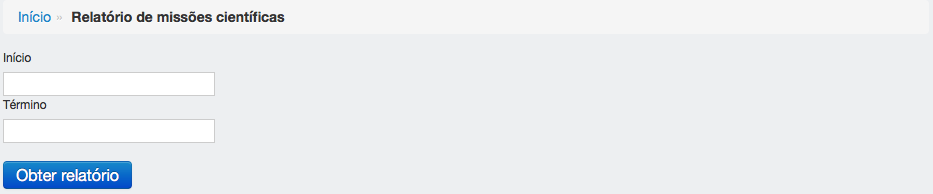
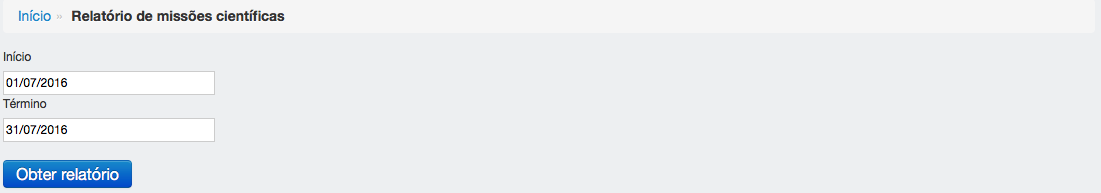
NIRA-114 - Update translations Documents update.

diff --git a/templates/report/research/articles_report.html b/templates/report/research/articles_report.html
@@ -17,7 +17,7 @@
     </p>
     <ol type="1">
     {% if published_scientific or accepted_scientific %}
-        <p style="margin-left: -40px"><strong>Published or accepted</strong></p>
+        <p style="margin-left: -40px"><strong>{% trans "Published or accepted"%}</strong></p>
             {% if published_scientific %}
                 {% for article in published_scientific %}
                     {% if not article.article.hide %}
@@ -71,7 +71,7 @@
     {% endif %}
 
     {% if published_dissemin or accepted_dissemin %}
-        <p style="margin-left: -40px"><strong>Published or accepted from the dissemination team</strong></p>
+        <p style="margin-left: -40px"><strong>{% trans "Published or accepted from the dissemination team" %}</strong></p>
             {% if published_dissemin %}
                 {% for article in published_dissemin %}
                     {% if not article.article.hide %}

diff --git a/docs/source/relatorios/main.rst b/docs/source/relatorios/main.rst
@@ -2,7 +2,8 @@
 Relatórios
 ==========
 
-Informações sobre os relatórios que podem ser gerados no NIRA.
+Os relatórios apresentam as informações cadastradass no sistema em determinado período e podem ser exportados para o LaTeX.
+
 
 .. image:: imagens/relatorios.png
 
@@ -32,6 +33,9 @@ Para obter o relatório de artigos dentro de um determinado período, preencha a
 
 .. image:: imagens/artigos.png
 
+Para o período de 01/05/2015 - 15/08/2016, o começo do relatório de artigos apresentado é o seguinte:
+
+.. image:: imagens/relatorio_artigos.png
 
 ********
 Difusões
@@ -45,6 +49,9 @@ Para obter o relatório de difusões de um determinado tipo dentro de um determi
 
 .. image:: imagens/difusoes.png
 
+Para o período de 01/07/2016 - 31/07/2016, o relatório de difusões apresentado é o seguinte:
+
+.. image:: imagens/relatorio_difusoes.png
 
 ********
 Reuniões
@@ -58,8 +65,9 @@ Para obter o relatório de reuniões dentro de um determinado período, selecion
 
 .. image:: imagens/reunioes.png
 
-:Campos obrigatórios:
+Um relatório de reuniões para o período de 01/11/2015 - 31/11/2015 é o seguinte:
 
+.. image:: imagens/relatorio_reunioes.png
 
 *******************
 Missões científicas
@@ -73,6 +81,9 @@ Para obter o relatório de missões científicas dentro de um determinado perío
 
 .. image:: imagens/missoes_cientificas.png
 
+O resultado de missões científicas para o período 01/07/2016 - 31/07/2016 é:
+
+.. image:: imagens/relatorio_missoes_cientificas.png
 
 **********
 Seminários
@@ -86,6 +97,9 @@ Para obter o relatório de seminários de uma determinada categoria em um determ
 
 .. image:: imagens/seminarios.png
 
+O relatório para o período 01/01/2016 - 30/06/2016 é:
+
+.. image:: imagens/relatorio_seminarios.png
 
 ************************
 Programas de treinamento
@@ -98,3 +112,20 @@ Obter relatório de programas de treinamento
 Para obter o relatório de programas de treinamento em determinado período, preencha as datas de início e término e clique em obter relatório.
 
 .. image:: imagens/programas_treinamento.png
+
+O relatório de programas de treinamento para o período 01/01/2016 - 31/01/2016 é:
+
+.. image:: imagens/relatorio_programas_treinamento.png
+
+******************************
+Obtendo relatórios em LaTeX
+******************************
+
+Ao obter um relatório no NIRA, você tem a opção de baixar um relatório no formato *.tex*
+
+Para isso, clique no botão *Baixar o arquivo .tex* na página de resultado do relatório.
+
+O arquivo baixado pode ser importado em um outro arquivo LaTeX fazendo::
+
+    \input{nome_do_arquivo_baixado}
+
